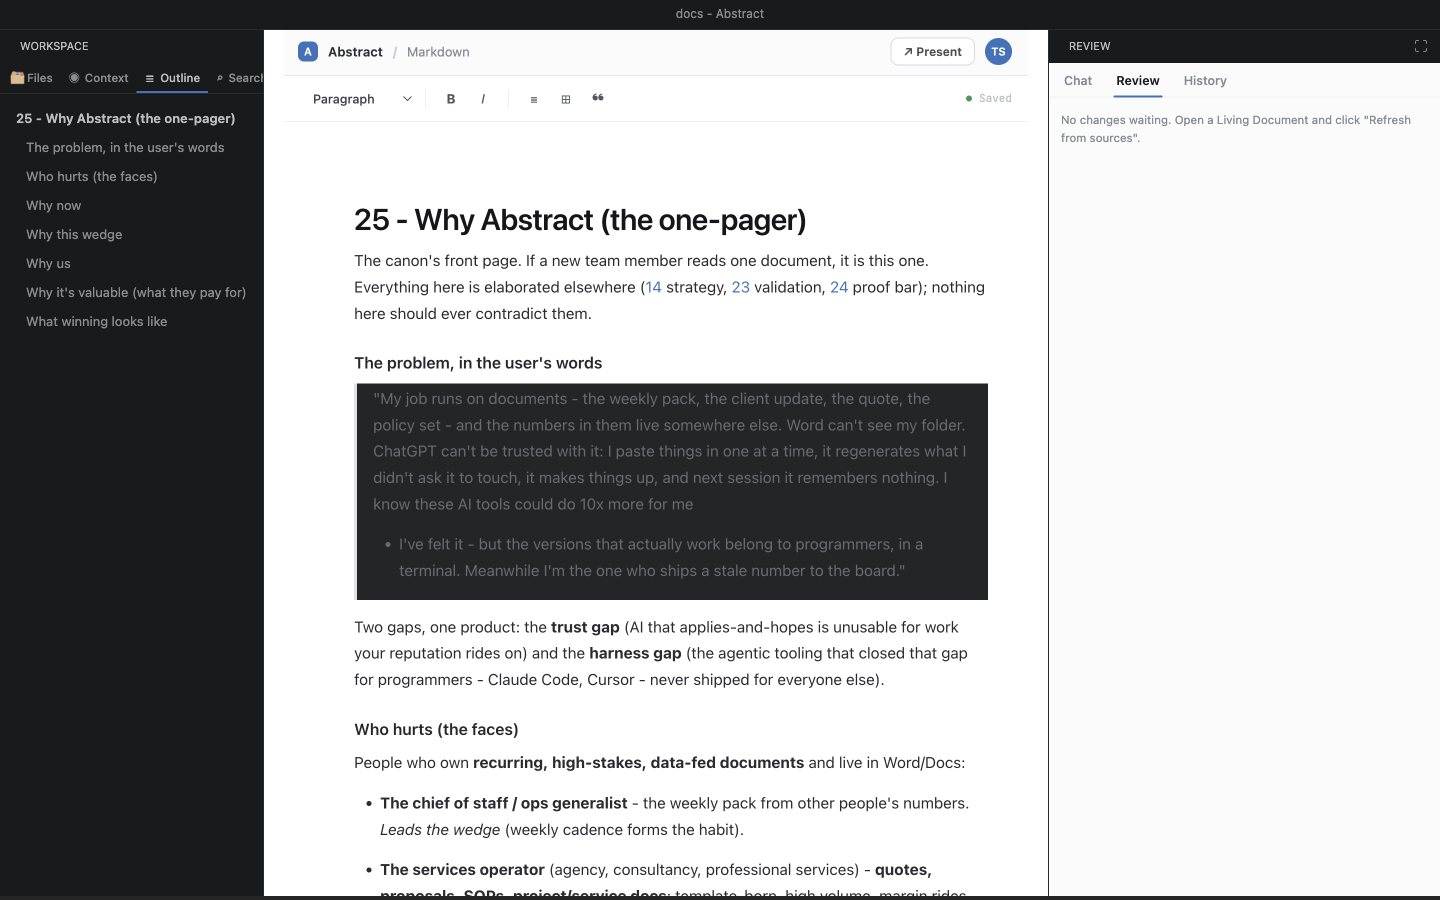
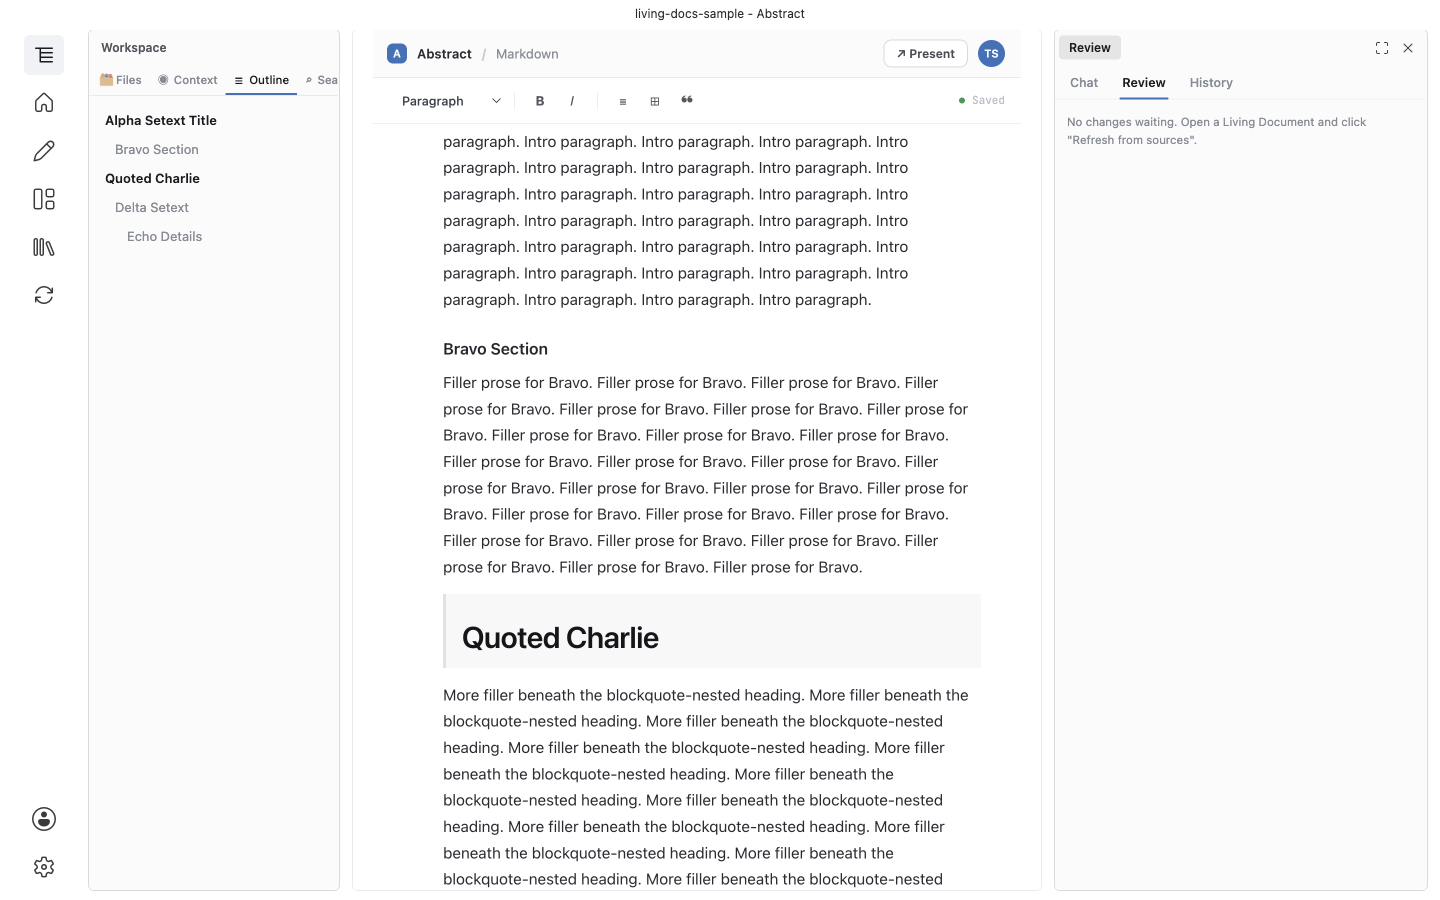
fix(livingDocs): derive Outline ordinals from the rendered heading scan so setext/blockquote clicks land (#181)
The Outline click-to-scroll anchored the reveal on the heading's ordinal among
`doc.blocks`, but `classify()` recognises ONLY single-line ATX headings, while
the ProseMirror surface (prosemirror-markdown / markdown-it over `doc.body`)
ALSO renders setext headings (`Title` + `===`/`---`) and headings nested in a
blockquote (`> # x`) as real `<hN>` elements. The two parsers disagreed on which
lines are headings, so every ordinal after a setext or blockquote heading
drifted and the click scrolled to the WRONG heading.

Fix the divergence at its source: `buildOutline` now scans `doc.body` for the
headings markdown-it actually renders (ATX, setext, blockquote-nested; fenced
code excluded) and takes both the entries and their `headingIndex` from that one
scan. The outline ordinals now line up 1:1 with the rendered `<hN>` sequence the
webview's `revealHeading` scrolls against, so there is no cross-parser coupling
left to drift. No protocol/webview change - the same headingIndex channel, now
counted correctly.

Regression test parses a RAW body with a setext title, a blockquote-nested
heading, an ATX run, a fenced `# ...` line and a `---` thematic break, and
asserts the outline entries + their indices; it fails against the old
block-ordinal code (which returned the wrong ordinals / dropped the setext and
blockquote headings entirely). Verified live against the real vendored bundle:
the Outline lists all five headings and clicking Delta Setext / Quoted Charlie
[…]

diff --git a/src/vs/workbench/contrib/livingDocs/common/treeRail.ts b/src/vs/workbench/contrib/livingDocs/common/treeRail.ts
@@ -66,7 +66,7 @@ export function classifyWorkspaceExtra(name: string): { kind: 'source' | 'unsupp
 	const ext = dot >= 0 ? lower.slice(dot + 1) : '';
 	if (!ext) { return undefined; }
 	if (SOURCE_EXTS.has(ext)) { return { kind: 'source' }; }
-	// Spreadsheets + PDFs are usable sources, not dead "not yet imported" rows (issue #131, doc 22 §4): a
+	// Spreadsheets + PDFs are usable sources, not dead "not yet imported" rows (issue #131, doc 22 section 4): a
 	// workbook offers "Use as source" (sheets -> CSVs), a PDF offers "Use as source" (text -> read-only context).
 	const action = SOURCE_ACTIONS[ext];
 	if (action) { return { kind: 'source', action }; }
@@ -184,27 +184,102 @@ export interface IOutlineEntry {
 	readonly text: string;
 	readonly level: number;
 	/**
-	 * The heading's zero-based ordinal among ALL heading blocks in document order. The editor's ProseMirror
-	 * surface renders one `<h1..h6>` per heading block in the same order, so this index is the anchor the
-	 * Outline tab uses to scroll the surface to a clicked heading (issue #181) - no drifting text/slug match.
-	 * Counts every heading (even a blank one that is not shown as a row) so it lines up with the rendered DOM.
+	 * The heading's zero-based ordinal among the headings the editor actually RENDERS, in document order. The
+	 * ProseMirror surface (prosemirror-markdown / markdown-it over `doc.body`) emits one `<h1..h6>` per
+	 * rendered heading, so this index is the anchor the Outline tab uses to scroll the surface to a clicked
+	 * heading (issue #181) - `revealHeading` selects the Nth `<hN>` by this index, no drifting text/slug match.
 	 */
 	readonly headingIndex: number;
 }
 
-const HEADING_PREFIX_RE = /^#{1,6}\s+/;
 const BIND_LINK_RE = /\[([^\]]*)\]\(bind:[^)\s]+\)/g;
+const FENCE_RE = /^ {0,3}(?<fence>`{3,}|~{3,})/;
+const ATX_RE = /^ {0,3}(?<hashes>#{1,6})(?:[ \t]+(?<text>.*?))?(?:[ \t]+#+)?[ \t]*$/;
+const SETEXT_UNDERLINE_RE = /^ {0,3}(?<underline>=+|-+)[ \t]*$/;
+const BLOCKQUOTE_RE = /^ {0,3}(?:> ?)+/;
+const BLANK_RE = /^[ \t]*$/;
 
-/** The Outline-tab entries: the document's headings in order, stripped of Markdown syntax. */
+/** One rendered heading found by scanning the raw body the ProseMirror surface renders. */
+interface IScannedHeading {
+	readonly level: number;
+	/** The heading's raw inline text (ATX body or setext line), before bind-link/whitespace cleanup. */
+	readonly text: string;
+}
+
+/**
+ * Scan the raw Markdown body for the headings the ProseMirror surface (markdown-it / prosemirror-markdown)
+ * actually renders as `<h1..h6>`, in document order. This is the SAME set the webview's `revealHeading`
+ * scrolls against, so an entry's ordinal in this list lines up 1:1 with the Nth rendered `<hN>` (issue #181).
+ *
+ * It recognises exactly what CommonMark (markdown-it's default) renders as a heading, and no more:
+ *   - ATX headings (`#`..`######`), up to three leading spaces, optional closing `#`s;
+ *   - setext headings (a non-blank text line immediately underlined by `===`/`---`);
+ *   - headings nested in a blockquote (the `>` markers are stripped, then the line is re-tested).
+ * Fenced code blocks (```` ``` ````/`~~~`) are skipped wholesale, since their contents are not parsed as
+ * Markdown - matching the surface, so both sides count the same headings and no index can drift.
+ *
+ * The custom block parser in `livingDocMarkdown.ts` recognised only single-line ATX headings, so its
+ * ordinals drifted from the DOM the moment a setext or blockquote-nested heading appeared; deriving the
+ * outline from this shared scan kills that two-parser divergence at its source.
+ */
+function scanRenderedHeadings(body: string): IScannedHeading[] {
+	const headings: IScannedHeading[] = [];
+	const lines = body.split(/\r?\n/);
+	let fence: string | undefined;
+	let prevContent: string | undefined;
+	for (const rawLine of lines) {
+		// Inside a fenced code block, only its matching closing fence ends it; nothing else is a heading.
+		if (fence !== undefined) {
+			const close = FENCE_RE.exec(rawLine);
+			if (close && close.groups!.fence[0] === fence[0] && close.groups!.fence.length >= fence.length) {
+				fence = undefined;
+			}
+			prevContent = undefined;
+			continue;
+		}
+		// A blockquote-nested heading renders too: strip the `>` markers, then judge the inner line.
+		const line = rawLine.replace(BLOCKQUOTE_RE, '');
+
+		const openFence = FENCE_RE.exec(line);
+		if (openFence) {
+			fence = openFence.groups!.fence;
+			prevContent = undefined;
+			continue;
+		}
+
+		const atx = ATX_RE.exec(line);
+		if (atx) {
+			headings.push({ level: atx.groups!.hashes.length, text: (atx.groups!.text ?? '').trim() });
+			prevContent = undefined;
+			continue;
+		}
+
+		const underline = SETEXT_UNDERLINE_RE.exec(line);
+		if (underline && prevContent !== undefined) {
+			// A setext heading: the previous content line underlined by `=` (h1) or `-` (h2).
+			headings.push({ level: underline.groups!.underline[0] === '=' ? 1 : 2, text: prevContent.trim() });
+			prevContent = undefined;
+			continue;
+		}
+
+		prevContent = BLANK_RE.test(line) ? undefined : line;
+	}
+	return headings;
+}
+
+/**
+ * The Outline-tab entries: the document's rendered headings in order, stripped of Markdown/bind syntax.
+ * Derived from `doc.body` via the same heading scan the editor surface renders against, so each entry's
+ * `headingIndex` is the exact ordinal of its `<hN>` in the DOM the Outline scrolls (issue #181).
+ */
 export function buildOutline(doc: ILivingDoc | undefined): IOutlineEntry[] {
 	if (!doc) { return []; }
 	const entries: IOutlineEntry[] = [];
 	let headingIndex = 0;
-	for (const block of doc.blocks) {
-		if (block.type !== 'heading') { continue; }
-		const text = block.text.replace(HEADING_PREFIX_RE, '').replace(BIND_LINK_RE, '$1').trim();
-		if (text) { entries.push({ text, level: block.level ?? 1, headingIndex }); }
-		// Advance for EVERY heading block, shown or not, so the index tracks the rendered `<hN>` ordinal.
+	for (const heading of scanRenderedHeadings(doc.body)) {
+		const text = heading.text.replace(BIND_LINK_RE, '$1').trim();
+		if (text) { entries.push({ text, level: heading.level, headingIndex }); }
+		// Advance for EVERY rendered heading, shown as a row or not, so the index tracks the `<hN>` ordinal.
 		headingIndex++;
 	}
 	return entries;

diff --git a/src/vs/workbench/contrib/livingDocs/test/browser/treeRail.test.ts b/src/vs/workbench/contrib/livingDocs/test/browser/treeRail.test.ts
@@ -138,24 +138,67 @@ suite('treeRail', () => {
 	});
 
 	test('buildOutline returns headings in order (living OR plain doc), stripped of Markdown/bind syntax, with a stable headingIndex that skips blank headings', () => {
-		// A PLAIN Markdown document (isLiving: false) still gets a full outline (issue #181): the Outline tab
-		// only needs the parsed heading blocks, not source bindings. A blank heading is not shown as a row but
-		// DOES advance headingIndex, so each entry's index still lines up with the Nth rendered `<hN>`.
-		const d: ILivingDoc = {
-			...doc('Notes', [], 'body'), isLiving: false, blocks: [
-				{ id: 'h0', type: 'heading', text: '# Weekly Operating Summary', level: 1, binds: [] },
-				{ id: 'h1', type: 'heading', text: '## [Highlights](bind:x)', level: 2, binds: [] },
-				{ id: 'p0', type: 'paragraph', text: 'Prose in between.', binds: [] },
-				{ id: 'h2', type: 'heading', text: '##   ', level: 2, binds: [] },
-				{ id: 'h3', type: 'heading', text: '## Key metrics', level: 2, binds: [] },
-			]
-		};
+		// A PLAIN Markdown document (isLiving: false) still gets a full outline (issue #181). The outline is
+		// derived from the RAW body the editor renders, so a blank ATX heading (`##` with no text) is not shown
+		// as a row but STILL advances headingIndex, keeping each entry lined up with the Nth rendered `<hN>`.
+		const body = [
+			'# Weekly Operating Summary',
+			'',
+			'## [Highlights](bind:x)',
+			'',
+			'Prose in between.',
+			'',
+			'##   ',
+			'',
+			'## Key metrics',
+			'',
+		].join('\n');
+		const d: ILivingDoc = { ...doc('Notes', [], body), isLiving: false, blocks: [] };
 		assert.deepStrictEqual(buildOutline(d), [
 			{ text: 'Weekly Operating Summary', level: 1, headingIndex: 0 },
 			{ text: 'Highlights', level: 2, headingIndex: 1 },
 			{ text: 'Key metrics', level: 2, headingIndex: 3 },
 		]);
 		assert.deepStrictEqual(buildOutline(undefined), []);
+	});
+
+	test('buildOutline counts setext + blockquote-nested headings so its indices match the rendered <hN> ordinals (issue #181 regression)', () => {
+		// The DOM the Outline scrolls is rendered by prosemirror-markdown (markdown-it) from the raw body, which
+		// renders SETEXT headings (`Title` underlined by `===`/`---`) and headings nested in a BLOCKQUOTE as real
+		// `<hN>` elements. The old outline counted only single-line ATX headings, so every ordinal after a setext
+		// or blockquote heading drifted and Outline clicks scrolled to the WRONG heading. Deriving the outline
+		// from the same body scan makes the ordinals line up 1:1. `---` after a blank line is a thematic break,
+		// NOT a setext underline, and a fenced code block's `# ...` line is not a heading - both excluded, so the
+		// count matches the DOM exactly. Against the pre-fix (block-ordinal) code the indices would read
+		// 0/1/2/3 and the setext/blockquote headings would be missing entirely, so this asserts the fix.
+		const body = [
+			'Alpha Setext Title',    // rendered <h1> #0 (setext, underlined below)
+			'==================',
+			'',
+			'## Bravo',              // rendered <h2> #1 (ATX)
+			'',
+			'> # Quoted Charlie',    // rendered <h1> #2 (heading inside a blockquote)
+			'',
+			'```',
+			'# Not A Heading',       // inside a fence: NOT rendered as a heading
+			'```',
+			'',
+			'Delta Setext',          // rendered <h2> #3 (setext, `-` underline after content)
+			'------------',
+			'',
+			'---',                   // thematic break (blank line before): NOT a heading
+			'',
+			'### Echo',              // rendered <h3> #4 (ATX)
+			'',
+		].join('\n');
+		const d: ILivingDoc = { ...doc('Mixed', [], body), isLiving: false, blocks: [] };
+		assert.deepStrictEqual(buildOutline(d), [
+			{ text: 'Alpha Setext Title', level: 1, headingIndex: 0 },
+			{ text: 'Bravo', level: 2, headingIndex: 1 },
+			{ text: 'Quoted Charlie', level: 1, headingIndex: 2 },
+			{ text: 'Delta Setext', level: 2, headingIndex: 3 },
+			{ text: 'Echo', level: 3, headingIndex: 4 },
+		]);
 	});
 
 	test('searchTreeRail matches title or body case-insensitively with a snippet, and ignores blank queries', () => {
